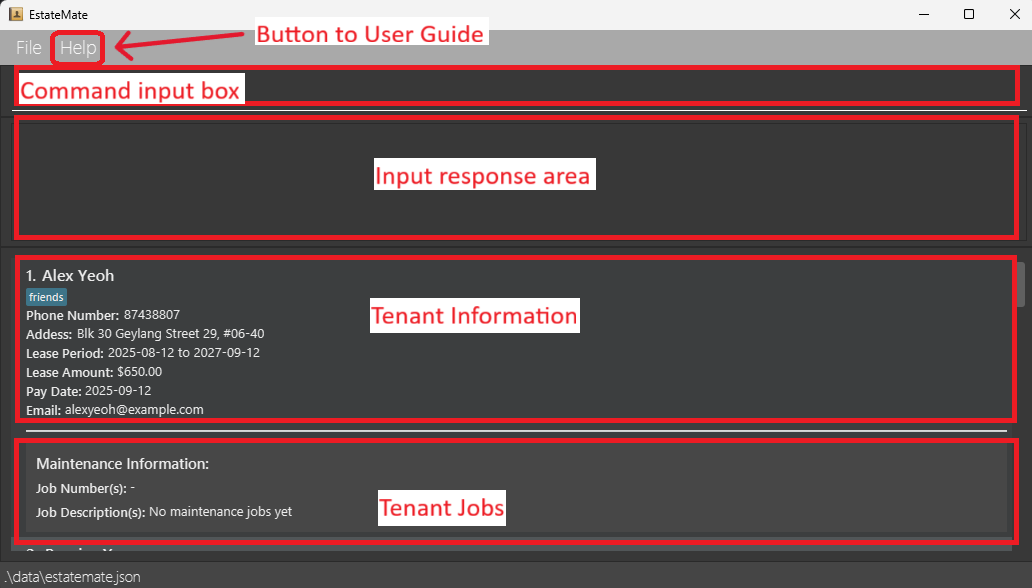
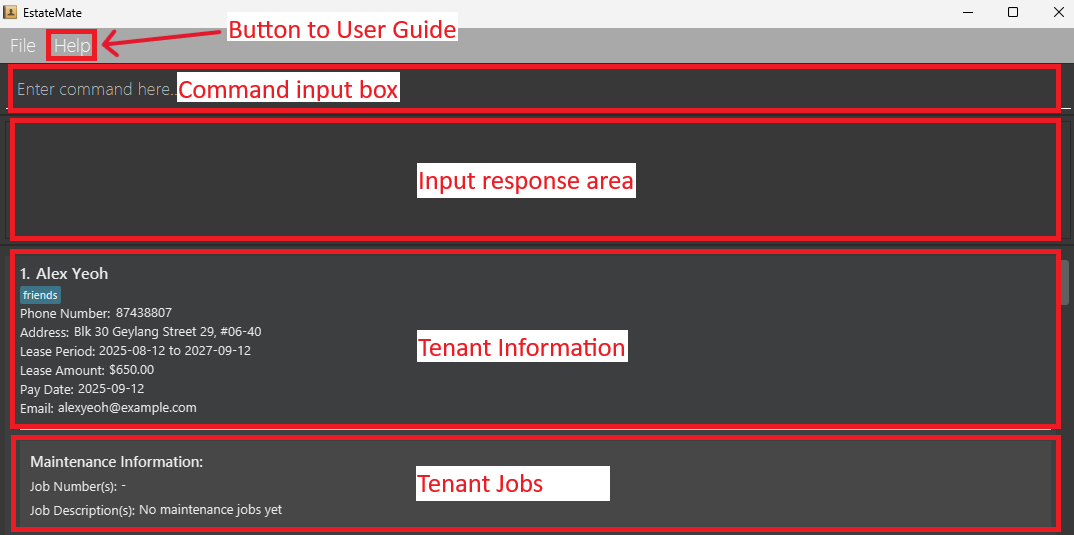
Update UG images to match latest GUI version

Changed region(s): [[0.0, 0.0, 1.0, 1.0], [0.3411, 0.5084, 0.5891, 0.5682], [0.9302, 0.0, 0.9922, 0.0598]]

diff --git a/docs/UserGuide.md b/docs/UserGuide.md
@@ -100,7 +100,7 @@ keep your properties running smoothly.
 
 6. Use `cd [folder path]` to navigate into the folder you put the jar file in, and use the `java -jar estatemate.jar` command to run the application.<br>
    A [GUI (Graphical User Interface)](#gui) similar to the below should appear in a few seconds. Note how the app contains some sample data.<br>
-   <img src="images/Updated_GUI_v3.png" alt="Updated GUI v3" width="600">
+   ![sample-data-gui](images/sample-data-gui.png)
 
 7. Type a [command](#command) in the command box and press Enter to execute it. e.g. typing **`help`** and pressing `Enter` will open the help window.<br>
    Some example commands you can try:
@@ -116,7 +116,7 @@ keep your properties running smoothly.
 
     * `exit` : Exits the application.<br>
 
-<img src="images/help-window.png" alt="Help Window" width="657"> <br>
+![help-window](images/help-window.png) <br>
 
 8. Refer to the [Features](#3-features) below for details of each command.
 
@@ -208,9 +208,9 @@ Format: `tenant n/NAME p/PHONE e/EMAIL a/ADDRESS lease/START END r/AMOUNT paydat
 - Address can only take up to 170 characters including spaces, symbols and punctuations.
 - `lease/START END` refers to the lease period, specified as two valid calendar dates in the format `yyyy-MM-dd yyyy-MM-dd`, separated by exactly one space. The first date is the start date and the second date is the end date. The end date must be on the same day or after the start date.
 - Paydate is used to record the tenant's next rent payment deadline. You must enter a valid calendar date with the format `yyyy-MM-dd`.
-  ![before-add-v2.png](images/before-add-v2.png)
+  ![before-add-v3.png](images/before-add-v3.png)
   <br><br>
-  ![after-add-v2.png](images/after-add-v2.png)
+  ![after-add-v3.png](images/after-add-v3.png)
 - As seen in the "After" picture, there is an empty "Jobs:" field in the success message, indicating that the tenant
   was created without jobs assigned to them yet.
 
@@ -424,7 +424,7 @@ Examples:
 - `link 1 j/2` links the 2nd maintenance job in the job list to the 1st tenant in the tenant list. 
 <br>
 
-  <img src="images/linked-job.png" alt="Linked Job" width="1200">
+![linked-job](images/linked-job.png)
 <br>
 
 💡**Tip:**
@@ -455,9 +455,17 @@ Format: `mark JOB_NUMBER`
 
 Examples:
 - `mark 2` updates the completion status of job number 2 of the job list to 'completed'.
-<div style="display:flex; gap: 10px">  <img src="images/marked-tenantlist.png" alt="Marked Tenant List" width="457">
-  <img src="images/marked-joblist.png" alt="Updated GUI v2" width="492">
-</div>
+
+[//]: # (<div style="display:flex; gap: 10px">  )
+
+[//]: # (    <img src="images/marked-tenantlist.png" alt="Marked Tenant List" width="457">)
+
+[//]: # (  <img src="images/marked-joblist.png" alt="Updated GUI v2" width="492">)
+
+[//]: # (</div>)
+
+![marked-tenant-list](images/marked-tenant-list.png)
+![marked-job-list](images/marked-job-list.png)
 <br>
 
 💡**Tip:**
